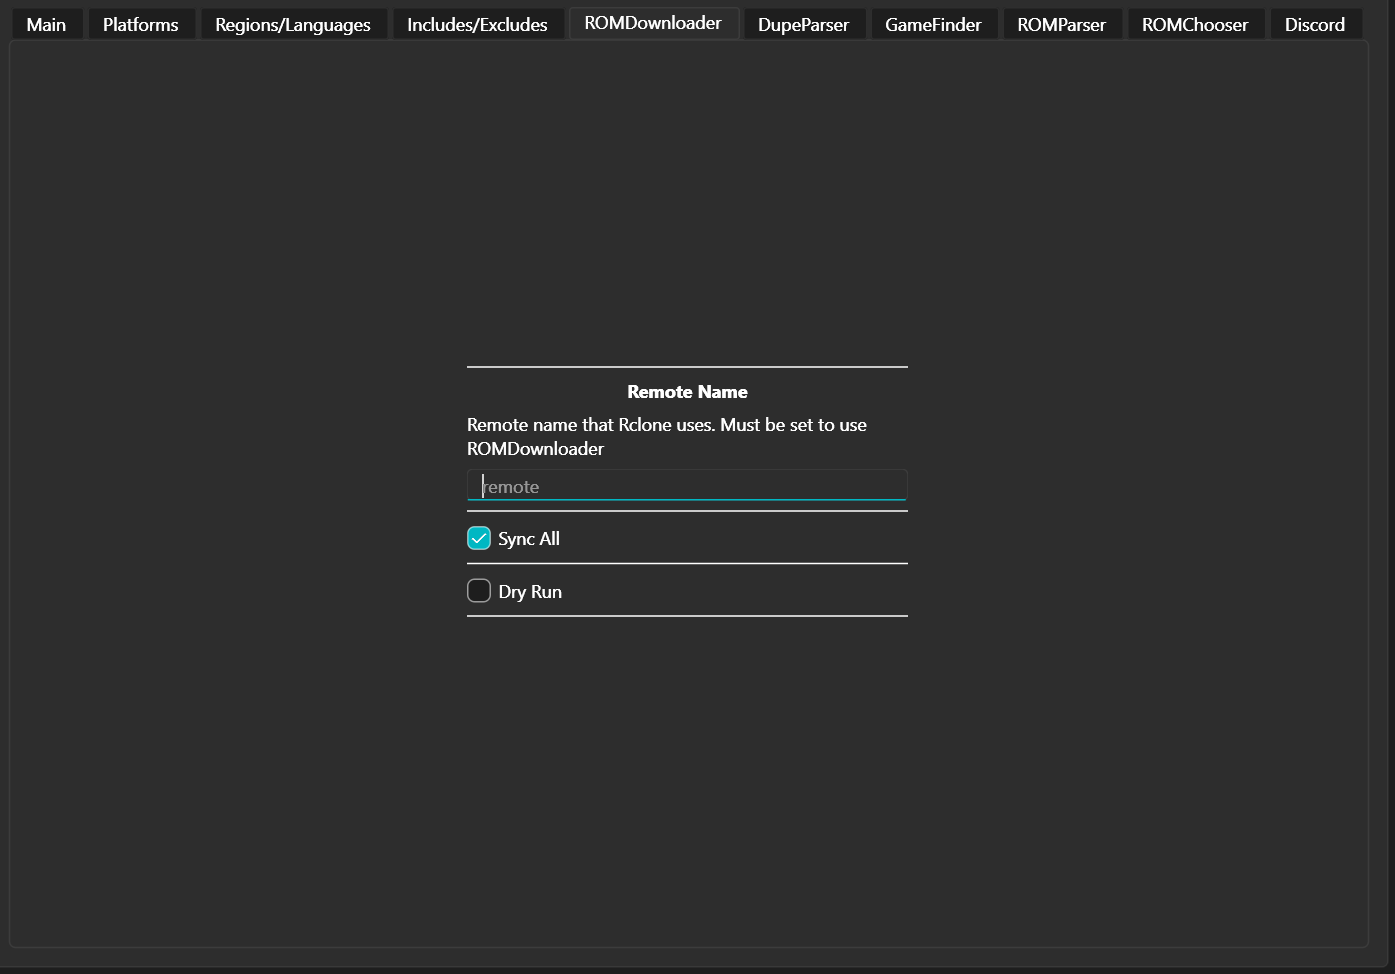
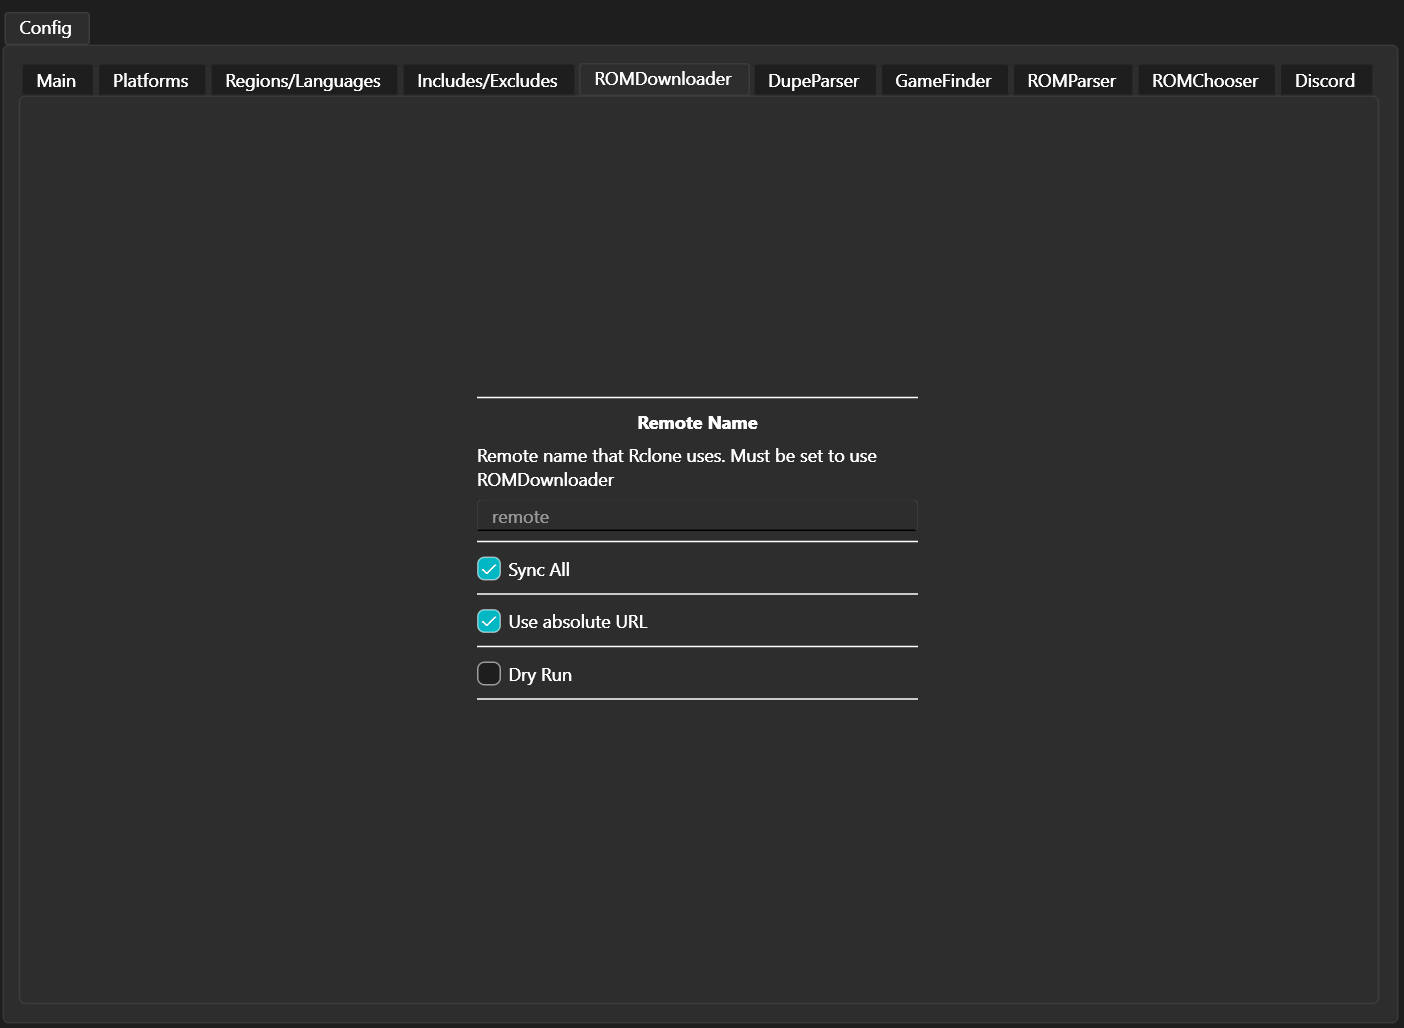
ROMDownloader enhancements
- Added `use_absolute_url` option for ROMDownloader, which is necessary for HTTP remotes
- If there are errors in the rclone sync, ROMDownloader will now retry a few times
- Renamed `ftp_dir` to `dir` for remote names for clarity (it's not necessarily an FTP!)
- Fixed error message in GUI in includes/excludes existed for an unchecked platform
- If there are errors in the rclone sync, ROMDownloader will now retry a few times
- Improved how rclone runs, to be less verbose and hopefully more reliable

diff --git a/romsearch/modules/romdownloader.py b/romsearch/modules/romdownloader.py
@@ -32,7 +32,7 @@ def add_rclone_filter(pattern=None,
     if include_wildcard:
         filter_pattern += "*"
 
-    cmd = f' --filter "{filter_str} {filter_pattern}"'
+    cmd = f'--filter "{filter_str} {filter_pattern}" '
 
     return cmd
 
@@ -153,10 +153,17 @@ class ROMDownloader:
             platform_config = load_yml(platform_config_file)
         self.platform_config = platform_config
 
-        ftp_dir = self.platform_config.get("ftp_dir", None)
-        if ftp_dir is None:
-            raise ValueError(f"ftp_dir should be defined in the platform config file!")
-        self.ftp_dir = ftp_dir
+        remote_dir = self.platform_config.get("dir", None)
+        if remote_dir is None:
+            raise ValueError(f"dir should be defined in the platform config file!")
+
+        # If we're not using absolute URLs, then remove that here
+        self.use_absolute_url = self.config.get("romdownloader", {}).get("use_absolute_url", True)
+        if not self.use_absolute_url:
+            if remote_dir[0] == "/":
+                remote_dir = remote_dir[1:]
+
+        self.remote_dir = remote_dir
 
         self.discord_url = self.config.get("discord", {}).get("webhook_url", None)
         self.dry_run = self.config.get("romdownloader", {}).get("dry_run", False)
@@ -167,7 +174,7 @@ class ROMDownloader:
 
         start_files = get_tidy_files(os.path.join(str(self.out_dir), "*"))
 
-        self.rclone_sync(ftp_dir=self.ftp_dir,
+        self.rclone_sync(remote_dir=self.remote_dir,
                          out_dir=self.out_dir,
                          )
 
@@ -184,13 +191,18 @@ class ROMDownloader:
         if "additional_dirs" in self.platform_config:
 
             for add_dir in self.platform_config["additional_dirs"]:
-                add_ftp_dir = self.platform_config["additional_dirs"][add_dir]
+                add_remote_dir = self.platform_config["additional_dirs"][add_dir]
+
+                # If using relative URL, strip the leading slash
+                if not self.use_absolute_url:
+                    if add_remote_dir[0] == "/":
+                        add_remote_dir = add_remote_dir[1:]
 
                 add_out_dir = f"{self.out_dir} {add_dir}"
 
                 start_files = get_tidy_files(os.path.join(str(add_out_dir), "*"))
 
-                self.rclone_sync(ftp_dir=add_ftp_dir,
+                self.rclone_sync(remote_dir=add_remote_dir,
                                  out_dir=add_out_dir,
                                  )
 
@@ -204,9 +216,10 @@ class ROMDownloader:
                                          )
 
     def rclone_sync(self,
-                    ftp_dir,
+                    remote_dir,
                     out_dir=None,
                     transfers=5,
+                    max_retries=5,
                     ):
 
         if out_dir is None:
@@ -215,7 +228,16 @@ class ROMDownloader:
         if not os.path.exists(out_dir):
             os.makedirs(out_dir)
 
-        cmd = f'rclone sync -P --transfers {transfers} "{self.remote_name}:{ftp_dir}" "{out_dir}"'
+        cmd = (
+            f'rclone sync '
+            f"--fast-list "
+            f"--check-first "
+            f"--delete-after "
+            f'--transfers {transfers} '
+            f'"{self.remote_name}:{remote_dir}" '
+            f'"{out_dir}" '
+            f'-v '
+        )
 
         # We mostly do full syncs here, but we can specify specific game names
         if not self.sync_all:
@@ -234,7 +256,7 @@ class ROMDownloader:
             if pattern:
                 cmd += add_rclone_filter(pattern=pattern,
                                          filter_type="exclude",
-                                         include_wildcard=self.include_wildcard,
+                                         include_wildcard=self.include_filter_wildcard,
                                          )
 
             # Now onto positive filters
@@ -255,21 +277,40 @@ class ROMDownloader:
                                          include_wildcard=self.include_filter_wildcard,
                                          )
 
-                cmd += ' --filter "- *"'
+                cmd += '--filter "- *" '
 
         if self.dry_run:
-            self.logger.info(f"Dry run, would rclone_sync with:")
+            self.logger.info(f"Dry run, would rclone sync with:")
             self.logger.info(cmd)
         else:
 
             if not os.path.exists(self.out_dir):
                 os.makedirs(self.out_dir)
 
-            # Execute the command and capture the output
-            with subprocess.Popen(cmd, text=True, stdout=subprocess.PIPE, stderr=subprocess.STDOUT) as process:
-                for line in process.stdout:
-                    # Log each line of the output using the provided logger
-                    self.logger.info(line[:-1])  # Exclude the newline character
+            retry = 0
+            retcode = 1
+
+            self.logger.info("Running rclone sync")
+
+            while retcode != 0 and retry < max_retries:
+
+                # Execute the command and capture the output
+                with subprocess.Popen(cmd, text=True, stdout=subprocess.PIPE, stderr=subprocess.STDOUT) as process:
+                    for line in process.stdout:
+
+                        # Skip the warning about directory filters using regex
+                        if "Can't figure out directory filters" in line:
+                            continue
+
+                        # Log each line of the output using the provided logger
+                        self.logger.info(line[:-1])  # Exclude the newline character
+
+                retcode = process.poll()
+                retry += 1
+
+            # If we've hit the maximum retries and still we have errors, raise an error with the args
+            if retcode != 0:
+                raise subprocess.CalledProcessError(retcode, process.args)
 
         return True
 

diff --git a/romsearch/gui/layout_romsearch.py b/romsearch/gui/layout_romsearch.py
@@ -643,6 +643,19 @@ class Ui_RomSearch(object):
 
         self.verticalLayoutConfigRomDownloaderMiddle.addWidget(self.checkBoxConfigRomDownloaderSyncAll)
 
+        self.lineConfigRomDownloaderSyncAllDividerBottom = QFrame(self.tabConfigRomDownloader)
+        self.lineConfigRomDownloaderSyncAllDividerBottom.setObjectName(u"lineConfigRomDownloaderSyncAllDividerBottom")
+        self.lineConfigRomDownloaderSyncAllDividerBottom.setFrameShadow(QFrame.Shadow.Plain)
+        self.lineConfigRomDownloaderSyncAllDividerBottom.setFrameShape(QFrame.Shape.HLine)
+
+        self.verticalLayoutConfigRomDownloaderMiddle.addWidget(self.lineConfigRomDownloaderSyncAllDividerBottom)
+
+        self.checkBoxConfigRomDownloaderUseAbsoluteUrl = QCheckBox(self.tabConfigRomDownloader)
+        self.checkBoxConfigRomDownloaderUseAbsoluteUrl.setObjectName(u"checkBoxConfigRomDownloaderUseAbsoluteUrl")
+        self.checkBoxConfigRomDownloaderUseAbsoluteUrl.setChecked(True)
+
+        self.verticalLayoutConfigRomDownloaderMiddle.addWidget(self.checkBoxConfigRomDownloaderUseAbsoluteUrl)
+
         self.lineConfigRomDownloaderDryRunTop = QFrame(self.tabConfigRomDownloader)
         self.lineConfigRomDownloaderDryRunTop.setObjectName(u"lineConfigRomDownloaderDryRunTop")
         self.lineConfigRomDownloaderDryRunTop.setFrameShadow(QFrame.Shadow.Plain)
@@ -1411,6 +1424,10 @@ class Ui_RomSearch(object):
         self.checkBoxConfigRomDownloaderSyncAll.setStatusTip(QCoreApplication.translate("RomSearch", u"Whether to sync everything when running ROMDownloader or whether to filter files based on includes/excludes. Default checked", None))
 #endif // QT_CONFIG(statustip)
         self.checkBoxConfigRomDownloaderSyncAll.setText(QCoreApplication.translate("RomSearch", u"Sync All", None))
+#if QT_CONFIG(statustip)
+        self.checkBoxConfigRomDownloaderUseAbsoluteUrl.setStatusTip(QCoreApplication.translate("RomSearch", u"Whether to treat the remote URL as absolute or relative. Should be unchecked for HTTP remotes", None))
+#endif // QT_CONFIG(statustip)
+        self.checkBoxConfigRomDownloaderUseAbsoluteUrl.setText(QCoreApplication.translate("RomSearch", u"Use absolute URL", None))
 #if QT_CONFIG(statustip)
         self.checkBoxConfigRomDownloaderDryRun.setStatusTip(QCoreApplication.translate("RomSearch", u"If checked, will not make any changes to filesystem. Default unchecked", None))
 #endif // QT_CONFIG(statustip)

diff --git a/romsearch/gui/gui_config.py b/romsearch/gui/gui_config.py
@@ -173,6 +173,7 @@ class ConfigWindow(QMainWindow):
 
         self.all_romdownloader_options = {
             "sync_all": self.ui.checkBoxConfigRomDownloaderSyncAll,
+            "use_absolute_url": self.ui.checkBoxConfigRomDownloaderUseAbsoluteUrl,
             "dry_run": self.ui.checkBoxConfigRomDownloaderDryRun,
         }
 
@@ -538,7 +539,8 @@ class ConfigWindow(QMainWindow):
                 for p in platforms:
                     includes = "\n".join(self.config[m][p])
 
-                    self.include_exclude_dict[p][mappings[m]].setPlainText(includes)
+                    if p in self.include_exclude_dict:
+                        self.include_exclude_dict[p][mappings[m]].setPlainText(includes)
 
         return True
 

diff --git a/docs/configs/platforms.rst b/docs/configs/platforms.rst
@@ -7,10 +7,10 @@ ROMSearch can work for a number of platforms, and the config for each is stored 
 Syntax: ::
 
     group: ["Redump", "No-Intro"]   # The group for these files. Currently either "Redump" or "No-Intro
-    ftp_dir: [ftp_dir]              # The FTP dir for rclone. This is usually something like [group]/[platform]
+    dir: [dir]                      # The remote dir for rclone. This is usually something like [group]/[platform]
     unzip: true                     # OPTIONAL. Whether to unzip files when moving. Defaults to false
-    additional_dirs:                # OPTIONAL. Occasionally, files may need to be pulled from other ftp directories.
-      [additional_dir]: [ftp_dir]   #           These can be specified here
+    additional_dirs:                # OPTIONAL. Occasionally, files may need to be pulled from other remote directories.
+      [additional_dir]: [dir]       #           These can be specified here
 
 Nintendo - GameCube
 ===================

diff --git a/CHANGES.rst b/CHANGES.rst
@@ -10,6 +10,14 @@ ROMChooser
 - Language priorities are now baked into the ROM selection. ROMs with more (and higher priority) languages
   will now be preferred
 
+ROMDownloader
+~~~~~~~~~~~~~
+
+- Added a `use_absolute_url` option, which if False will strip the leading slash from the directories. This is
+  potentially useful if using an HTTP remote
+- If there are errors in the rclone sync, ROMDownloader will now retry a few times
+- Improved how rclone runs, to be less verbose and hopefully more reliable
+
 ROMParser
 ~~~~~~~~~
 
@@ -19,6 +27,8 @@ General
 ~~~~~~~
 
 - Updated dev tools for the new config directory structure
+- Renamed `ftp_dir` to `dir` ion platform config files for clarity
+- Fixed error message in GUI in includes/excludes existed for an unchecked platform
 
 
 0.0.5 (2024-05-17)
